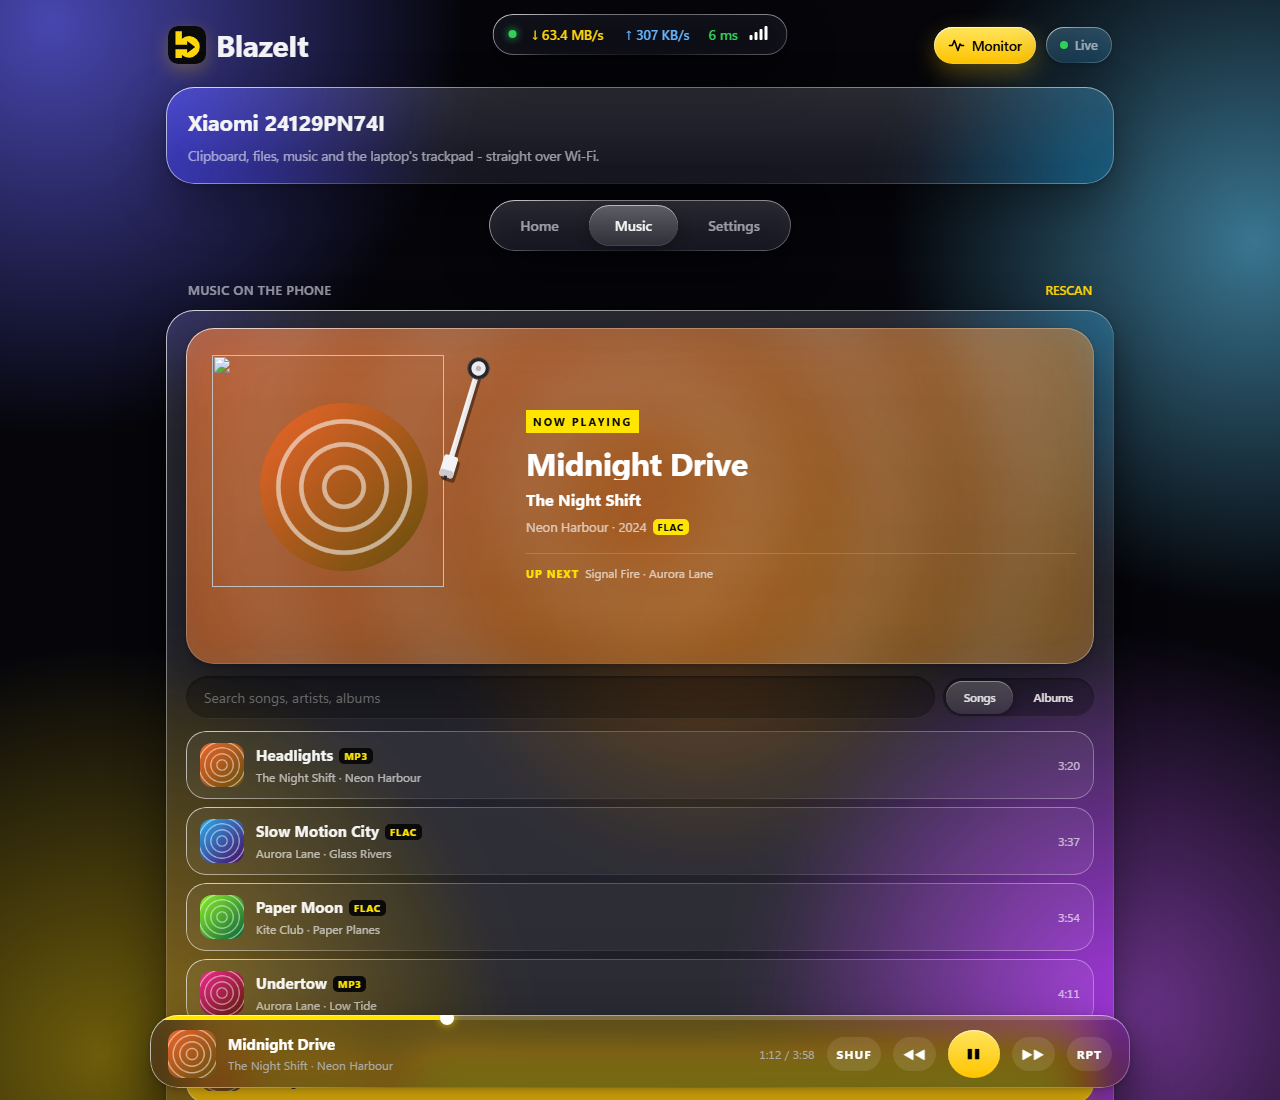
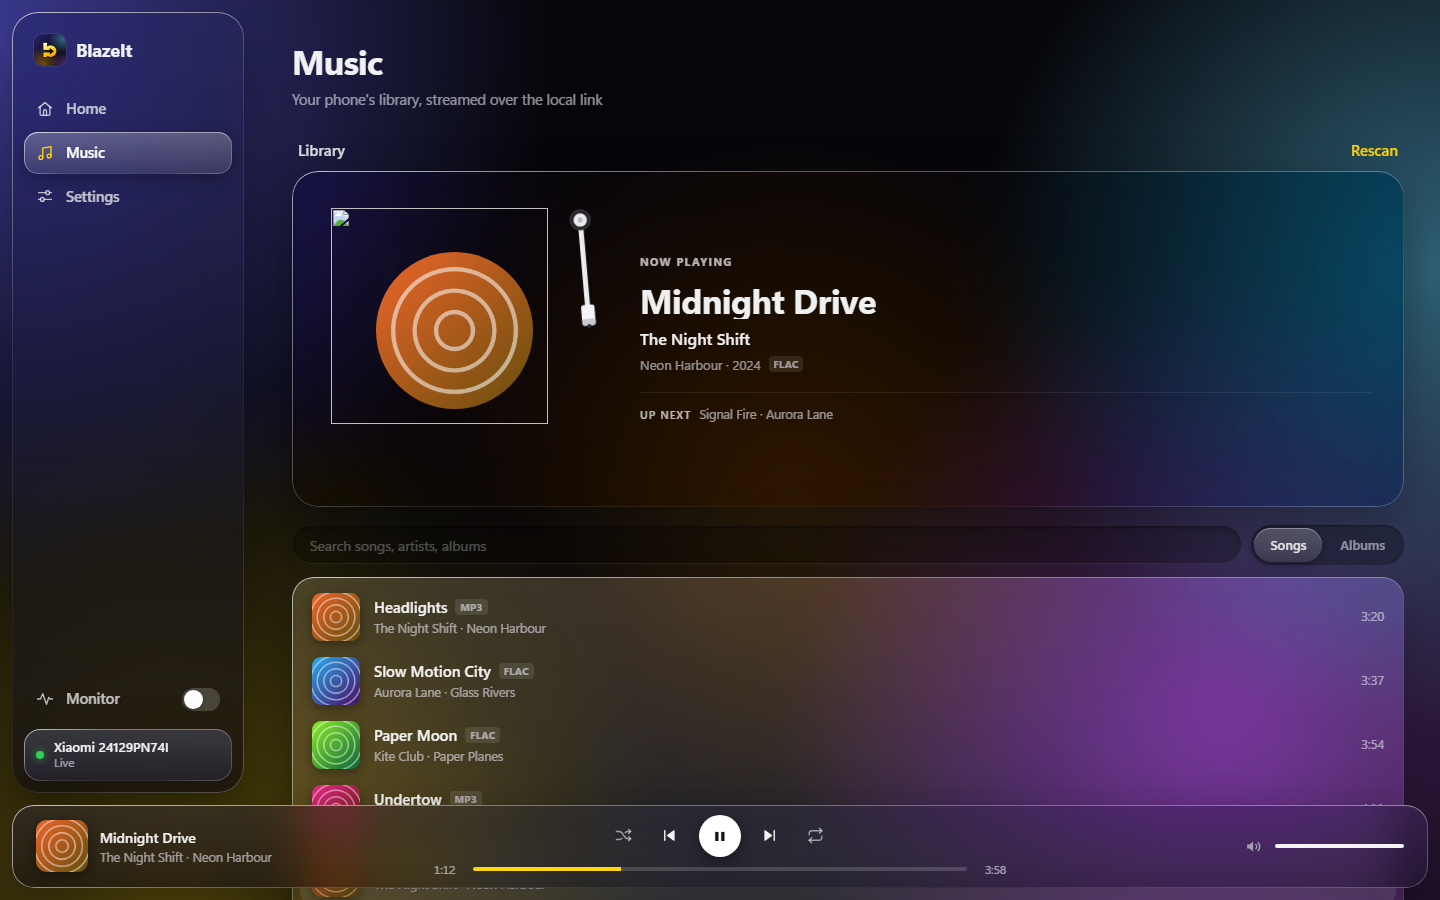
README: laptop layout, channel meter, OLED, idling; version 0.3.0

diff --git a/README.md b/README.md
@@ -28,7 +28,7 @@ blocks without ever being held in memory. A 4 GB video crosses in about a minute
 **up to 64 GB** are accepted (Setup → *Largest file accepted*).
 
 <p align="center">
-  <img src="docs/images/web-home.png" width="760" alt="Home: clipboard, files and the floating monitor">
+  <img src="docs/images/web-home.png" width="760" alt="Home: clipboard, files and the monitor">
 </p>
 
 ---
@@ -61,6 +61,14 @@ the way it does through a thick drop of glass, with a faint colour fringe where 
 is strongest. A specular rim and a sheen along the top sit on the surface. Older phones
 get a blurred glass instead.
 
+On a laptop the page uses the whole screen: a floating glass sidebar on the left, the
+page across the middle, the monitor docked as a panel on the right while it is on, and
+the player floating along the bottom.
+
+**Aurora or OLED black.** The backdrop is either the colourful aurora or true black, with
+the same glass on top. Switch it in *Setup → Appearance* on the phone or *Settings* on the
+page; the phone and every open page follow.
+
 | Home | Monitor | Phones | Control |
 | --- | --- | --- | --- |
 | <img src="docs/images/phone-home.png" width="190"> | <img src="docs/images/phone-monitor.png" width="190"> | <img src="docs/images/phone-phones.png" width="190"> | <img src="docs/images/phone-control.png" width="190"> |
@@ -91,11 +99,16 @@ Everything you move lives on one screen, on both sides.
 
 ### 4. A live monitor over every screen
 
-Tap the pulse button (phone) or **Monitor** (page) and a small glass capsule floats over
-whatever you are doing: speed each way, **ping**, and signal strength. Drag it out of the
-way on the phone. Tap it for the full picture:
+Tap the pulse button on the phone and a small glass capsule floats over whatever you are
+doing: speed each way, **ping**, and signal strength. Drag it out of the way; tap it for
+the full picture. On a laptop, **Monitor** in the sidebar docks the full picture as a
+panel on the right.
 
 - a minute of history for both directions;
+- **how full the channel is**, and with what: files, music and speed tests share the one
+  Wi-Fi channel, so music playing during a download takes its share from the download.
+  The bar shows the split against what the link can carry (estimated from the Wi-Fi link
+  rate, or the fastest second seen so far);
 - peak speed, total moved, open requests and running transfers;
 - **gaps**: seconds where a transfer was running but nothing moved;
 - both ends of the Wi-Fi link: the phone's own (standard, band, dBm, link rate) and the
@@ -104,7 +117,14 @@ way on the phone. Tap it for the full picture:
 Ping is measured by the page and the helper and shared with the phone, so both monitors
 show it.
 
-<img src="docs/images/web-monitor.png" width="620" alt="The monitor sheet">
+<img src="docs/images/web-home.png" width="760" alt="Home with the monitor docked on the right">
+
+**Nothing runs that nobody is using.** The phone only samples traffic while a monitor is
+on screen somewhere. The page stops polling when its tab is hidden. A paused player stops
+prefetching at once and lets go of its stream after a minute. The laptop helper reports
+its link every 2 s only while someone is watching (every 15 s otherwise), and the
+trackpad channel drops to a keep-alive every 25 s whenever the phone's Control tab is
+closed. The screen-on and low-latency Wi-Fi locks are held only while Control is open.
 
 ### 5. Phone to phone
 
@@ -114,8 +134,10 @@ with the same 4-digit code, and from then on send files or the clipboard text wi
 tap. Files go over the same parallel, resumable upload the browser uses. If a router
 blocks discovery, *Connect by address* takes the other phone's IP.
 
-Both phones share one Wi-Fi channel, so two phones do not add up to double the speed:
-the radio time is split, not stacked. Expect the same ~65–70 MB/s per link.
+Two phones do not add up to double the speed, even with each hosting a hotspot for the
+other. Each phone has one Wi-Fi chip: on one band both links take turns on the same
+channel, and on two bands the chip splits its antennas and the second link has to use
+2.4 GHz. Expect the same ~65–70 MB/s per link.
 
 ### 6. The phone as the laptop's trackpad and keyboard
 
@@ -172,7 +194,9 @@ The now-playing turntable uses the album cover as the record's label: the arm dr
 you press play, the disc spins, and pausing freezes it exactly where it is. The player
 floats at the bottom as its own piece of glass.
 
-<img src="docs/images/web-music.png" width="620" alt="Music playing on the turntable">
+| Aurora | OLED black |
+| --- | --- |
+| <img src="docs/images/web-music.png" width="420" alt="Music, aurora"> | <img src="docs/images/web-oled.png" width="420" alt="Music, OLED black"> |
 
 ---
 
